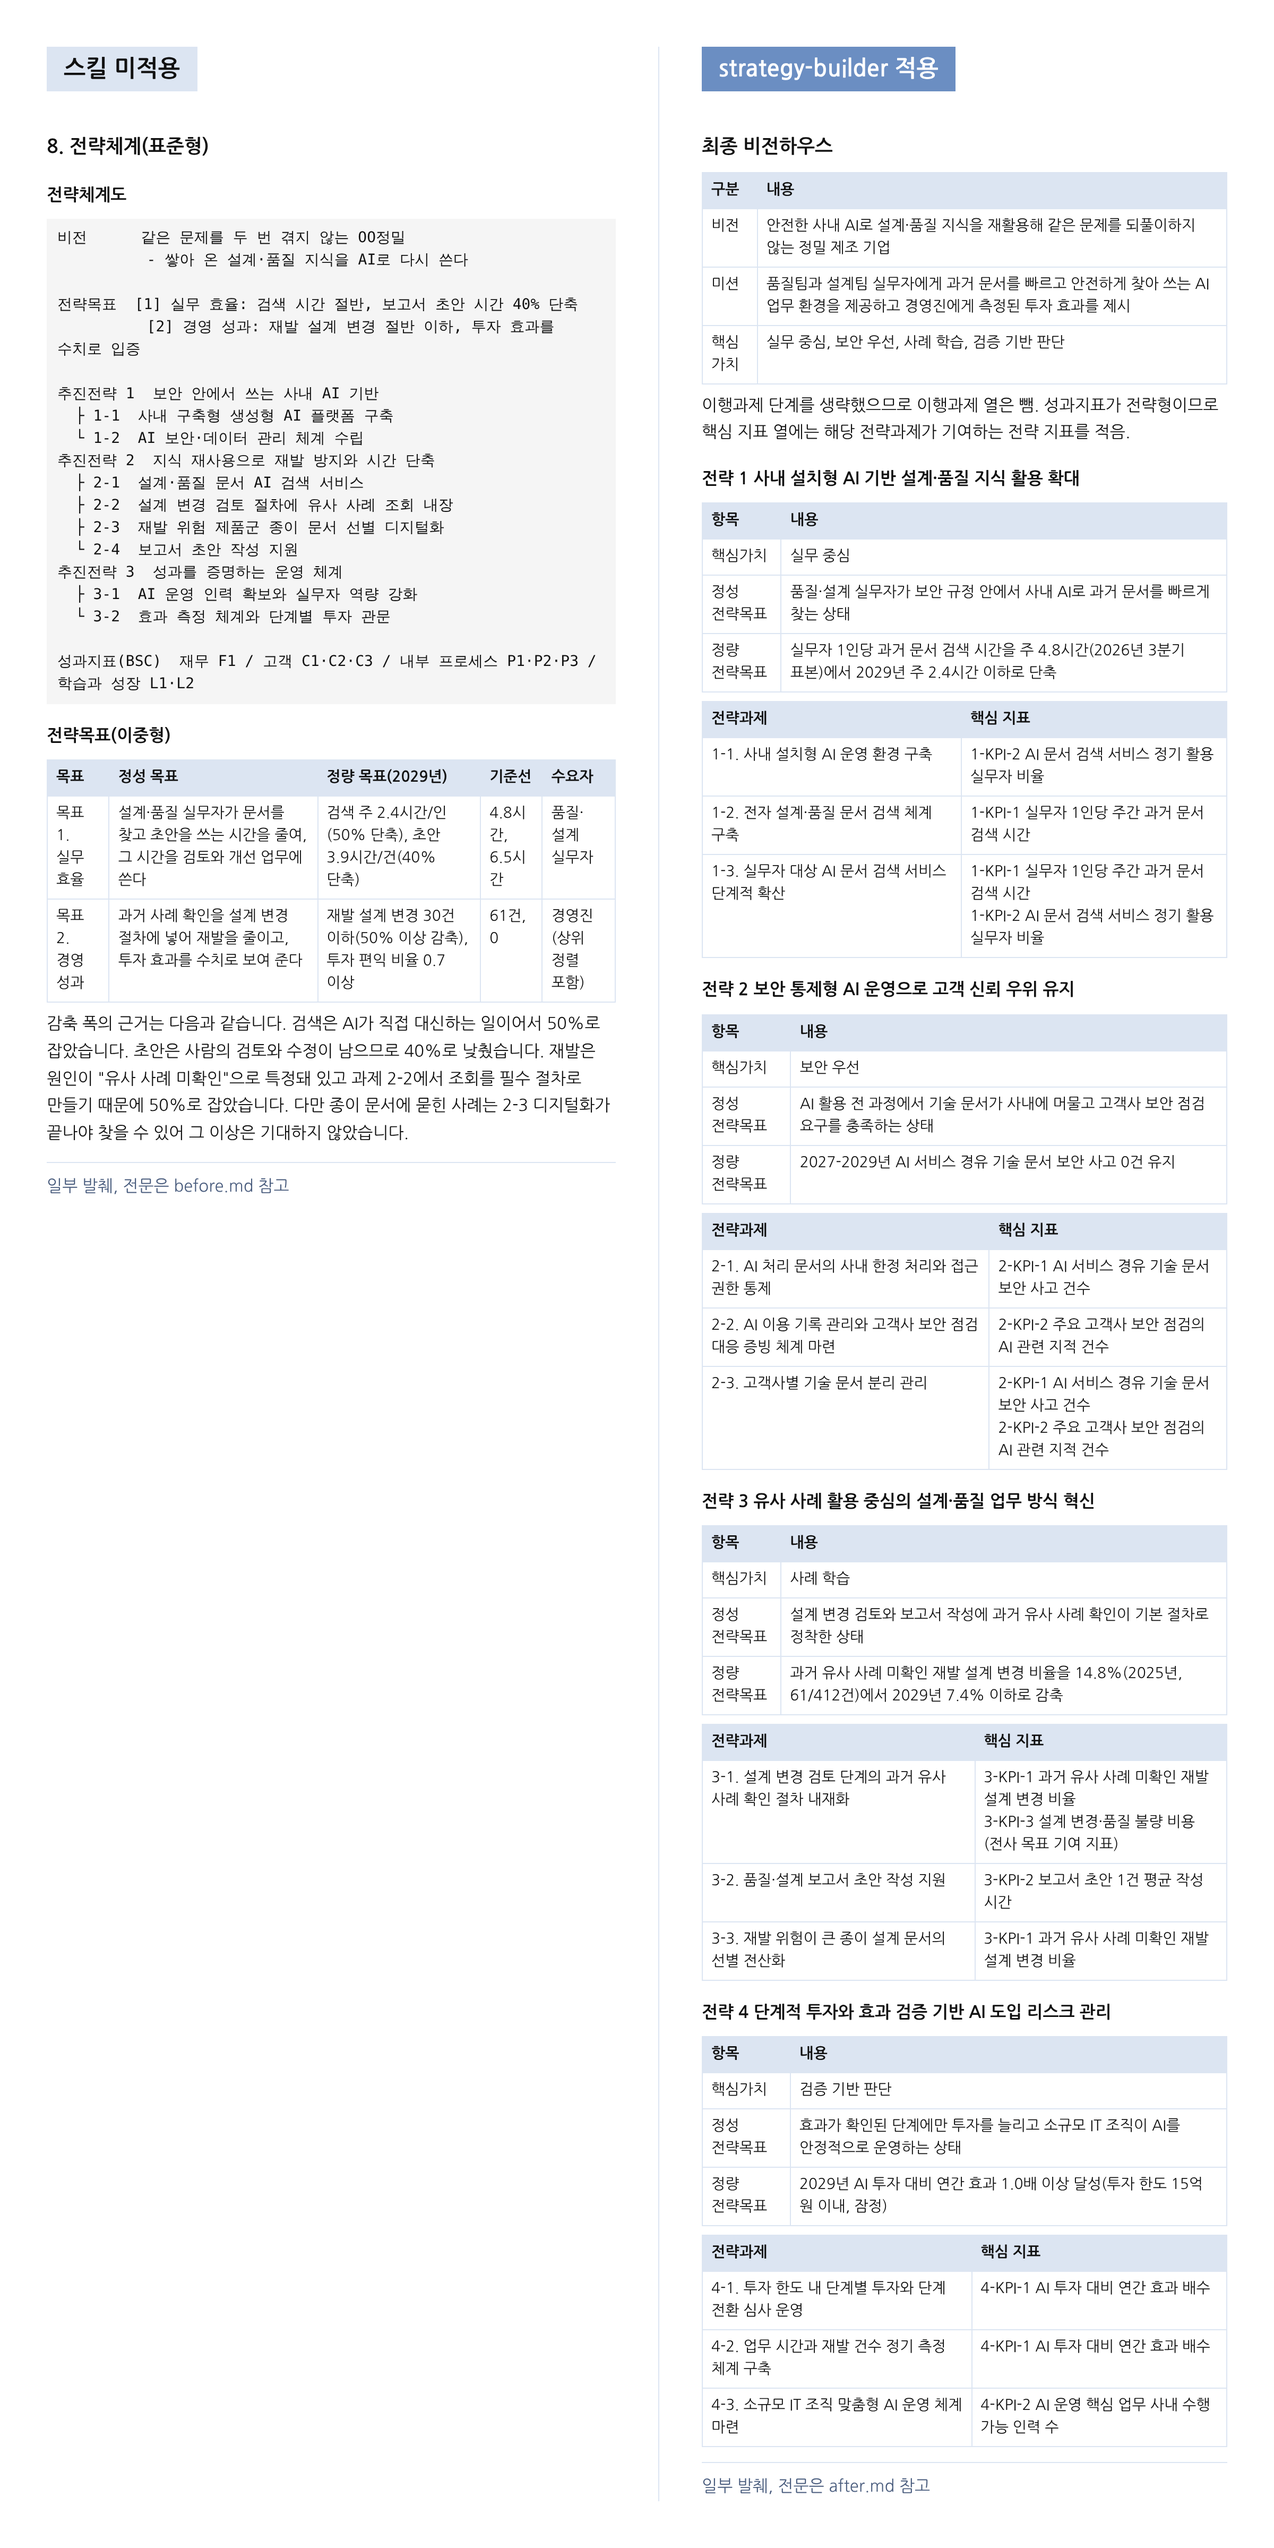
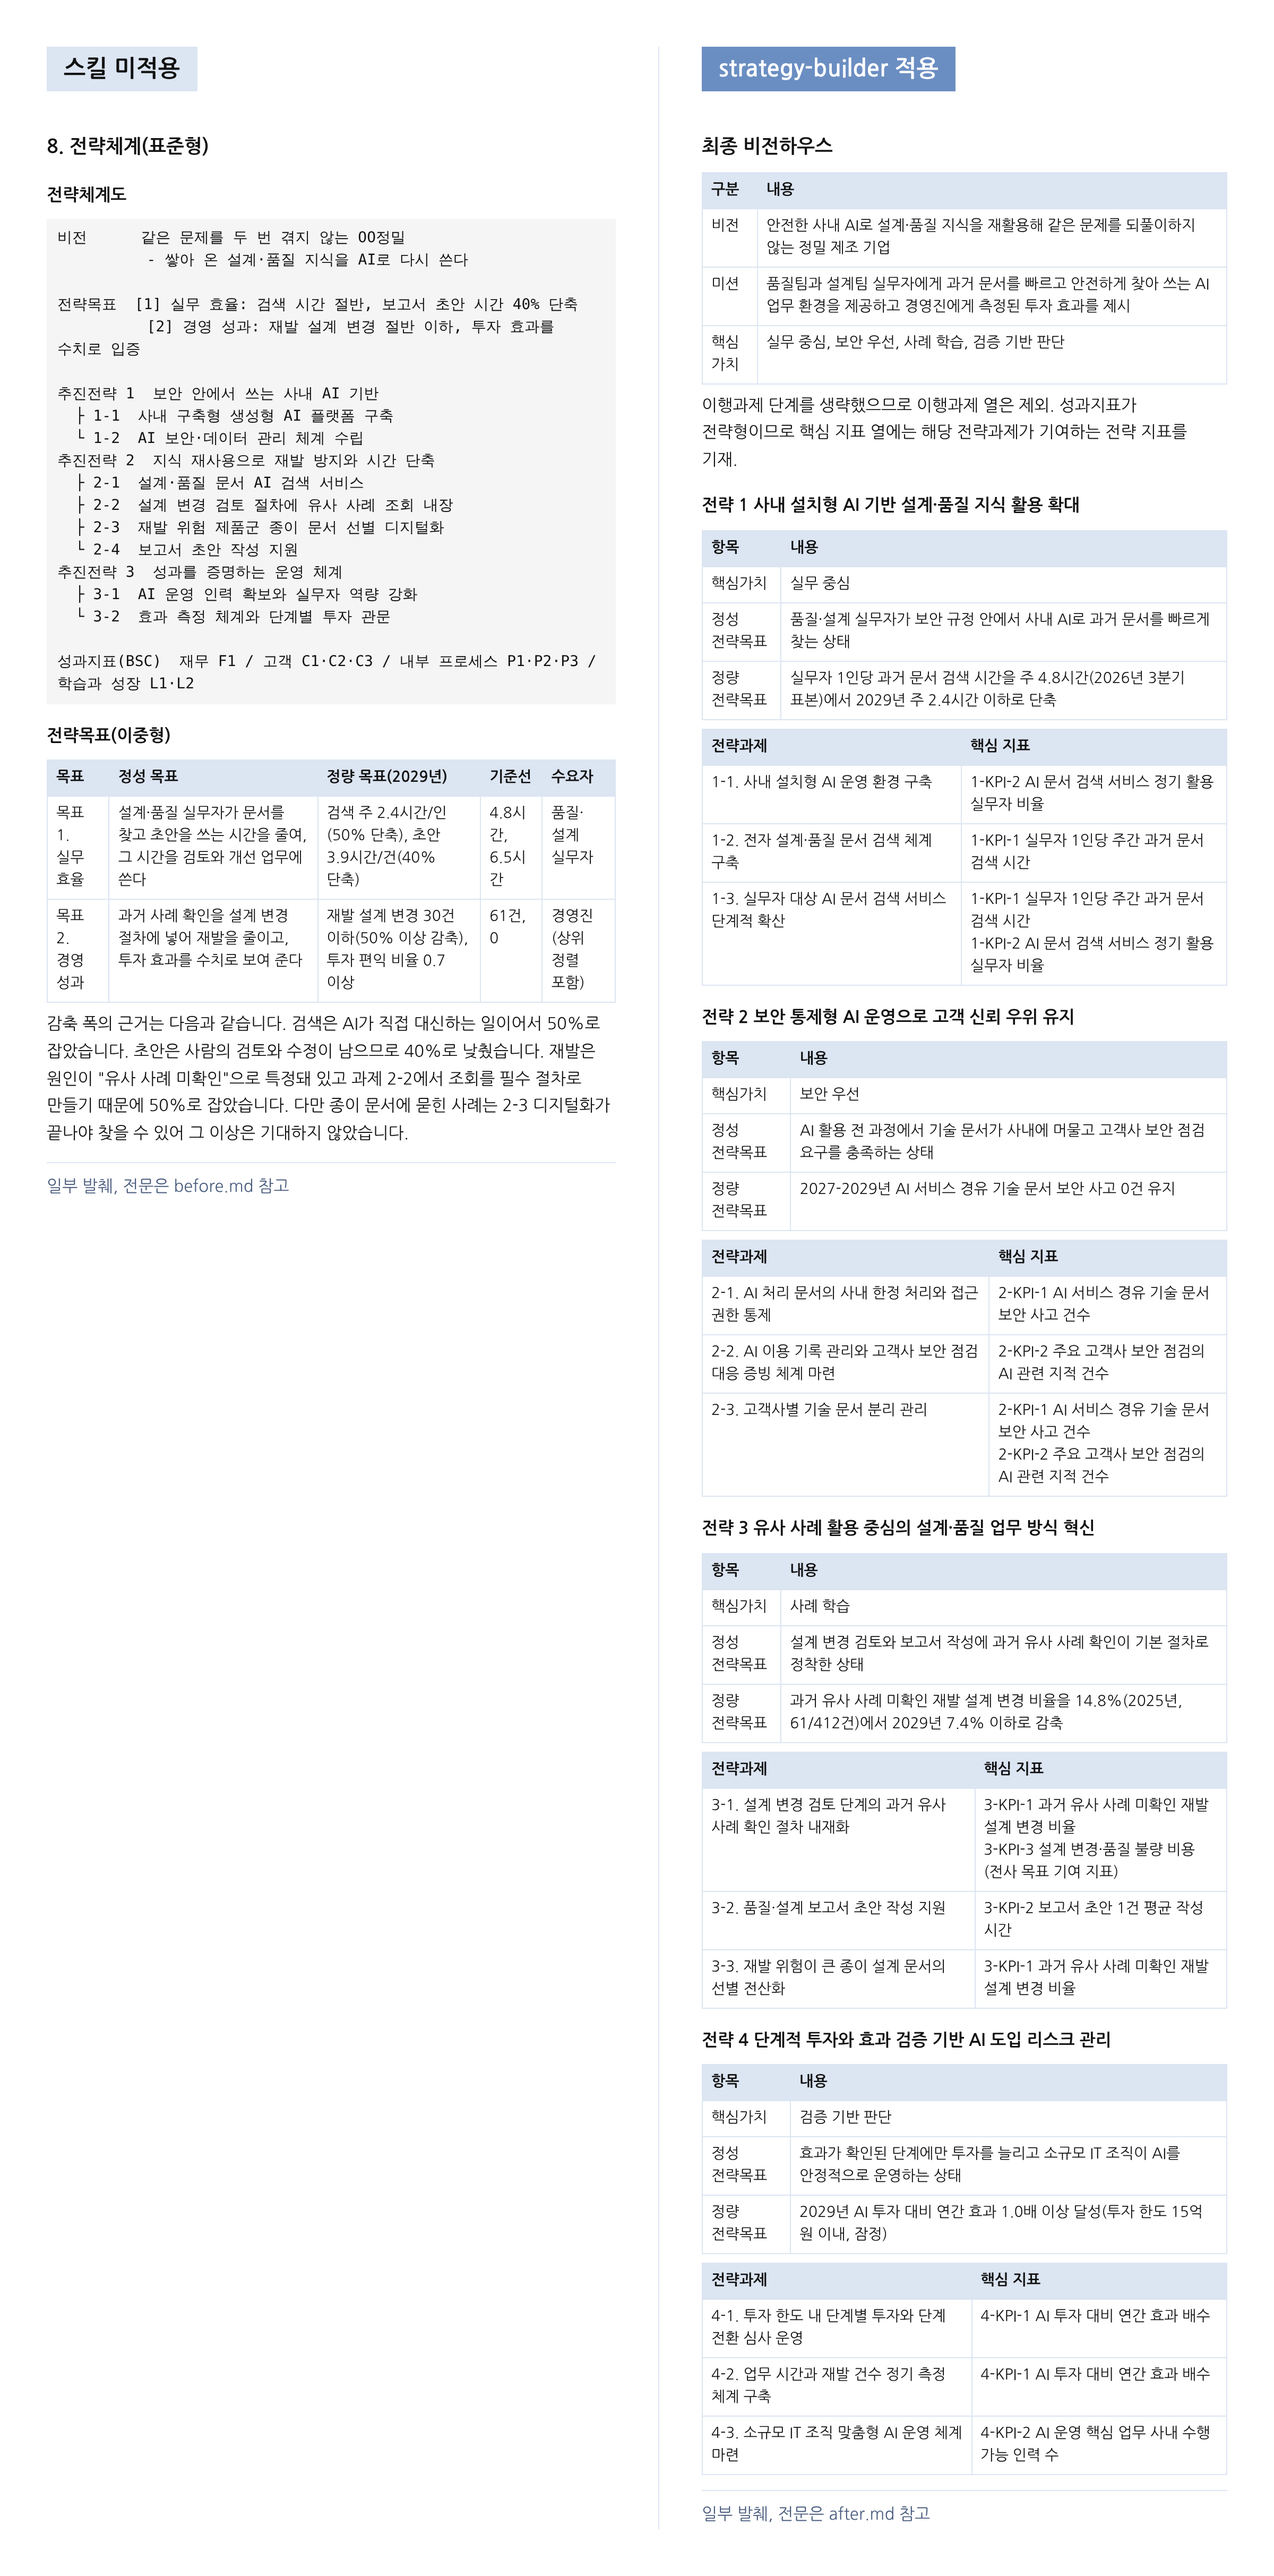
Reword colloquial phrases in the strategy-builder Korean sample
The Korean skill reply used spoken verb endings in its outline-style text,
such as "열은 뺌" and "목표치와 맞춤". Fourteen phrases now use the formal
wording the rest of the reply uses (제외, 일치, 환산, 소요 and similar).
The comparison image is re-rendered because its excerpt includes one of them.
The English sample already reads formally and is unchanged.

Claude-Session: https://claude.ai/code/session_013Pa4KQnbYgEBc9eWftjgtJ

diff --git a/skills/strategy-builder/demo/ko/after.md b/skills/strategy-builder/demo/ko/after.md
@@ -66,9 +66,9 @@
 
 ### 해석 유의 사항
 
-- F3은 전 세계 응답 기업 기준 수치로, 국내 제조업 도입률로 읽지 않음
+- F3은 전 세계 응답 기업 기준 수치로, 국내 제조업 도입률로 해석하지 않음
 - F4·F5는 2023년 4월 발표 계획 기준이며 2026년 현재 이행 현황은 제출 자료로 확인되지 않음
-- F4의 지원 대상에 중견기업이 없으므로 정부 컴퓨팅 자원 지원을 당사 기회로 보지 않고 6단계에서 위협(T1)으로 분류함
+- F4의 지원 대상에 중견기업이 없으므로 정부 컴퓨팅 자원 지원을 당사 기회로 간주하지 않고 6단계에서 위협(T1)으로 분류함
 - F6은 도입 사실만 있고 경쟁사의 도입 효과는 확인되지 않음
 
 ### 출처
@@ -127,7 +127,7 @@
 - I11. 2015년 이후 전자 설계 문서가 축적되어 AI 검색 대상으로 바로 연결할 수 있는 문서 자산 보유(F11)
 - I12. 2015년 이전 설계 문서는 종이로만 남아 전산 검색이 불가능한 지식 사각지대 존재(F11)
 - I13. 본사 서버실의 증설 공간과 전력으로 사내 설치형 AI 장비를 수용할 물리 기반 보유(F12)
-- I14. 실무자 48명의 문서 검색에 주 합계 약 230시간(48명 × 4.8시간), 보고서 초안 1건에 6.5시간이 드는 반복 업무 부담. 근거는 2주 표본뿐이고 상시 측정 체계는 부재(F9, F13, F14)
+- I14. 실무자 48명의 문서 검색에 주 합계 약 230시간(48명 × 4.8시간), 보고서 초안 1건에 6.5시간이 소요되는 반복 업무 부담. 근거는 2주 표본뿐이고 상시 측정 체계는 부재(F9, F13, F14)
 - I15. 설계 변경 412건 중 61건(14.8%)이 과거 사례 미확인 재발로, 축적 문서가 재발 방지에 쓰이지 못하는 상태. 59억 원 중 재발분 비용은 미집계(F15, F16)
 - I16. 2027-2029년 AI 투자 재원 15억 원이 확정되어 재원과 상한이 함께 정해진 상태(F17)
 
@@ -273,7 +273,7 @@
 - 전략 2: 2-1 처리 범위 통제, 2-2 증빙, 2-3 고객사 단위 구분으로 고객사 점검 요구(P4)를 미리 충족하는 구조
 - 전략 3: 3-1 재발 차단(P3), 3-2 초안 시간 단축(P2), 3-3 사각지대 축소(P3)로 업무 절차 자체를 바꾸는 구조
 - 전략 4: 4-1 투자 단계화(P5), 4-2 효과 측정(P5), 4-3 운영 공백 방지(P1)로 실패 비용의 상한을 정하는 구조
-- 4-1의 시범(2027년), 확대(2028년), 전면(2029년) 구분을 전 전략에 공통 적용하고 10단계의 단기·중기·장기 목표치와 맞춤
+- 4-1의 시범(2027년), 확대(2028년), 전면(2029년) 구분을 전 전략에 공통 적용하고 10단계의 단기·중기·장기 목표치와 일치
 - 단계별 투자 배분액은 장비와 전산화 견적 자료가 없어 이번 결과에서 정하지 않음
 
 - 점검(1-8단계): 통과. 문제이슈 5건과 전략 4개의 상호 연결, 이중형 목표 기재, 전략과제 번호 형식과 상위 전략 확인
@@ -333,20 +333,20 @@
 
 | 지표 | 기준선(출처) | 목표 설정 논리 | 한계와 확인 필요 |
 |---|---|---|---|
-| 1-KPI-1 | 주 4.8시간(F14, 2026년 3분기 2주 표본) | 시범·확대·전면 단계에 맞춰 기준선 대비 10%·30%·50% 단축(소수 첫째 자리 반올림)<br>장기 달성 시 실무자 48명의 주 합계 검색 시간이 230.4시간에서 115.2시간으로 줄어 주 115.2시간 절감<br>2015년 이전 종이 문서는 전산화한 범위만 검색되고 원문 확인 시간이 남으므로 50%를 상한으로 둠 | 단축률은 외부 근거 없는 판단값(벤치마킹 생략). 2027년 시범 측정 후 보정<br>기준선과 같은 3분기 2주 표본 방식으로 측정해야 계절 차이를 배제할 수 있음 |
+| 1-KPI-1 | 주 4.8시간(F14, 2026년 3분기 2주 표본) | 시범·확대·전면 단계에 따라 기준선 대비 10%·30%·50% 단축(소수 첫째 자리 반올림)<br>장기 달성 시 실무자 48명의 주 합계 검색 시간이 230.4시간에서 115.2시간으로 줄어 주 115.2시간 절감<br>2015년 이전 종이 문서는 전산화한 범위만 검색되고 원문 확인 시간이 남으므로 50%를 상한으로 둠 | 단축률은 외부 근거 없는 판단값(벤치마킹 생략). 2027년 시범 측정 후 보정<br>기준선과 같은 3분기 2주 표본 방식으로 측정해야 계절 차이를 배제할 수 있음 |
 | 1-KPI-2 | 0%(서비스 미운영) | 시범 12명(25%), 확대 29명(60%), 전면 44명(90%)<br>검색 수요가 적은 직무를 고려해 100% 대신 90% | 분모는 해마다 재직 실무자 수로 갱신 |
 | 2-KPI-1 | 해당 없음(신규 서비스) | 보안 사고는 허용 수준을 두지 않는 0건 기준 | 보안 사고의 정의(유출, 권한 밖 열람 포함 여부)를 보안 담당과 확정 |
 | 2-KPI-2 | 0건(AI 미운영) | AI 도입 후에도 지적 0건 유지 | 2026년 고객사 점검 결과와 점검 항목 미제출(확인 요청 5) |
-| 3-KPI-1 | 14.8%(F16, 2025년 61/412건) | 기준선 대비 10%·30%·50% 감축(소수 첫째 자리 반올림)<br>건수 대신 비율을 써서 설계 변경 총량 변동의 영향을 배제<br>원인 사례가 종이 문서 시기에 있으면 AI 검색으로 찾을 수 없으므로 50%를 상한으로 둠 | 61건의 유사 사례가 2015년 이전과 이후 중 어느 문서에 있었는지 분류 필요(확인 요청 4)<br>2026년 실적이 나오면 기준선 갱신 |
+| 3-KPI-1 | 14.8%(F16, 2025년 61/412건) | 기준선 대비 10%·30%·50% 감축(소수 첫째 자리 반올림)<br>건수 대신 비율을 사용해 설계 변경 총량 변동의 영향을 배제<br>원인 사례가 종이 문서 시기에 있으면 AI 검색으로 찾을 수 없으므로 50%를 상한으로 둠 | 61건의 유사 사례가 2015년 이전과 이후 중 어느 문서에 있었는지 분류 필요(확인 요청 4)<br>2026년 실적이 나오면 기준선 갱신 |
 | 3-KPI-2 | 6.5시간(F14, 2026년 3분기 2주 표본) | 기준선 대비 10%·25%·40% 단축(소수 첫째 자리 반올림)<br>AI 초안도 사실 확인과 수정 시간이 남으므로 검색 시간보다 단축 폭을 낮게 둠 | 연간 보고서 작성 건수가 없어 총 절감 시간 산출 불가(확인 요청 3) |
-| 3-KPI-3 | 59억 원(F15, 2025년) | 상위 정렬 U1의 20% 절감을 2025년 기준선에서 해마다 5%포인트씩 균등 배분: 2027년 −10%(53.1억 원), 2028년 −15%(50.15억 원), 2029년 −20%(47.2억 원) | 전사 공동 목표에 대한 기여 지표이므로 AI 전략만의 성과로 보지 않음<br>중기 경영계획의 기준 연도와 연도별 목표 확인 필요(확인 요청 2)<br>재발분 비용을 따로 집계해야 AI 기여분을 가려낼 수 있음 |
-| 4-KPI-1 | 연환산 투자액 5억 원(F17, 15억 원 ÷ 3년) | 2029년 연간 효과가 연환산 투자액 이상이 되는 손익분기점을 하한 목표로 설정 | 인건비 단가와 설계 변경 건당 비용이 없어 달성 가능성을 검증하지 못함(확인 요청 3)<br>참고 계산: 연 52주를 단순 적용해도 검색 시간 절감분(주 115.2시간, 연 약 5,990시간)만으로 1.0배에 이르려면 시간당 약 8.3만 원 이상의 가치가 필요하고, 실제 근무 주수를 적용하면 필요 단가가 더 높아짐. 따라서 재발 감축과 초안 시간 절감의 금액 환산이 달성 여부를 가름 |
+| 3-KPI-3 | 59억 원(F15, 2025년) | 상위 정렬 U1의 20% 절감을 2025년 기준선에서 해마다 5%포인트씩 균등 배분: 2027년 −10%(53.1억 원), 2028년 −15%(50.15억 원), 2029년 −20%(47.2억 원) | 전사 공동 목표에 대한 기여 지표이므로 AI 전략만의 성과로 보지 않음<br>중기 경영계획의 기준 연도와 연도별 목표 확인 필요(확인 요청 2)<br>재발분 비용을 별도 집계해야 AI 기여분을 가려낼 수 있음 |
+| 4-KPI-1 | 연환산 투자액 5억 원(F17, 15억 원 ÷ 3년) | 2029년 연간 효과가 연환산 투자액 이상이 되는 손익분기점을 하한 목표로 설정 | 인건비 단가와 설계 변경 건당 비용이 없어 달성 가능성 검증 불가(확인 요청 3)<br>참고 계산: 연 52주를 단순 적용해도 검색 시간 절감분(주 115.2시간, 연 약 5,990시간)만으로 1.0배에 이르려면 시간당 약 8.3만 원 이상의 가치가 필요하고, 실제 근무 주수를 적용하면 필요 단가 상승. 따라서 재발 감축과 초안 시간 절감의 금액 환산이 달성 여부를 결정 |
 | 4-KPI-2 | 0명(F10, AI 전담 인력 없음) | 1인에 의존하면 부재 시 운영 공백이 생기므로 장기 2명 이상, 단기 1명 | IT팀 5명 중 지정 가능 인원 확인 |
 
 ### 지표 논리 연결(BSC)
 
 - 전략과제 산출(1-1 장비, 1-2 색인 문서, 3-1 절차, 3-2 초안 기능)에서 활용 결과(1-KPI-2), 업무 결과(1-KPI-1, 3-KPI-2, 3-KPI-1), 파급 효과(3-KPI-3, 4-KPI-1)로 이어지는 구조
-- 4-KPI-1은 1-KPI-1과 3-KPI-2의 절감 시간, 3-KPI-1의 재발 감축 건수를 금액으로 바꾸어 합산함(합산 방식)
+- 4-KPI-1은 1-KPI-1과 3-KPI-2의 절감 시간, 3-KPI-1의 재발 감축 건수를 금액으로 환산해 합산함(합산 방식)
 - 2-KPI-1, 2-KPI-2는 확산 속도를 제약하는 조건. 보안 사고나 지적이 생기면 4-1 단계 전환 심사에서 확대 보류
 - 관점 배치: 재무 2개(3-KPI-3, 4-KPI-1), 고객 2개(1-KPI-2, 2-KPI-2), 내부 프로세스 4개(1-KPI-1, 2-KPI-1, 3-KPI-1, 3-KPI-2), 학습과 성장 1개(4-KPI-2). 학습과 성장 관점이 얇아 실무자 AI 활용 역량 지표의 추가 여부를 검토할 대상임
 
@@ -368,7 +368,7 @@
 | 미션 | 품질팀과 설계팀 실무자에게 과거 문서를 빠르고 안전하게 찾아 쓰는 AI 업무 환경을 제공하고 경영진에게 측정된 투자 효과를 제시 |
 | 핵심가치 | 실무 중심, 보안 우선, 사례 학습, 검증 기반 판단 |
 
-이행과제 단계를 생략했으므로 이행과제 열은 뺌. 성과지표가 전략형이므로 핵심 지표 열에는 해당 전략과제가 기여하는 전략 지표를 적음.
+이행과제 단계를 생략했으므로 이행과제 열은 제외. 성과지표가 전략형이므로 핵심 지표 열에는 해당 전략과제가 기여하는 전략 지표를 기재.
 
 ### 전략 1 사내 설치형 AI 기반 설계·품질 지식 활용 확대
 
@@ -452,7 +452,7 @@ graph LR
     I_I7 --> P_P2
     I_I11["I11. 2015년 이후 전자 설계 문서가 축적되어 AI 검색 대상으로 바로 연결 가능한 문서 자산 보유"]
     I_I11 --> P_P2
-    I_I14["I14. 실무자 48명의 문서 검색에 주 합계 약 230시간, 보고서 초안 1건에 6.5시간이 드는 반복 업무 부담이 있으나 근거는 2주 표본뿐이고 상시 측정 체계 부재"]
+    I_I14["I14. 실무자 48명의 문서 검색에 주 합계 약 230시간, 보고서 초안 1건에 6.5시간이 소요되는 반복 업무 부담이 있으나 근거는 2주 표본뿐이고 상시 측정 체계 부재"]
     I_I14 --> P_P2
     P_P3["P3. 과거 유사 사례 미활용에 따른 설계 변경 재발과 비용 발생"]
     I_I11 --> P_P3
@@ -675,7 +675,7 @@ graph LR
 
 ## 확인 요청 사항
 
-1. (자료 불일치) 내부현황의 "소요 시간을 측정한 자료는 없다"와 "2026년 3분기 2주 표본 측정"이 충돌함. 표본 측정이 실제로 있었는지 확인 필요. 없었다면 1-KPI-1, 3-KPI-2와 전략 1 정량 전략목표를 "2027년 상반기 기준선 측정 후 확정"으로 바꾸고 4-2를 첫 과제로 앞당김
+1. (자료 불일치) 내부현황의 "소요 시간을 측정한 자료는 없다"와 "2026년 3분기 2주 표본 측정"이 충돌함. 표본 측정이 실제로 있었는지 확인 필요. 없었다면 1-KPI-1, 3-KPI-2와 전략 1 정량 전략목표를 "2027년 상반기 기준선 측정 후 확정"으로 바꾸고 4-2를 첫 과제로 우선 배치
 2. (상위 정렬 기준 연도) 중기 경영계획 "20% 절감"의 기준 연도와 연도별 목표 확인 필요. 기준 연도가 2025년(59억 원)이 아니면 3-KPI-3 목표치를 다시 산정함
 3. (투자 효과 산정 자료) 품질·설계 실무자의 시간당 인건비 단가, 연간 보고서 초안 작성 건수, 설계 변경 건당 평균 비용(또는 재발 61건의 비용) 제출 필요. 제출되면 4-KPI-1과 전략 4 정량 전략목표의 잠정 표시를 풀거나 하향 조정함
 4. (재발 원인 문서 시기) 재발 61건의 유사 사례가 2015년 이전 종이 문서와 이후 전자 문서 중 어디에 있었는지 분류 필요. 종이 문서 비중이 크면 3-3의 우선순위를 높이고 3-KPI-1 목표를 조정함
